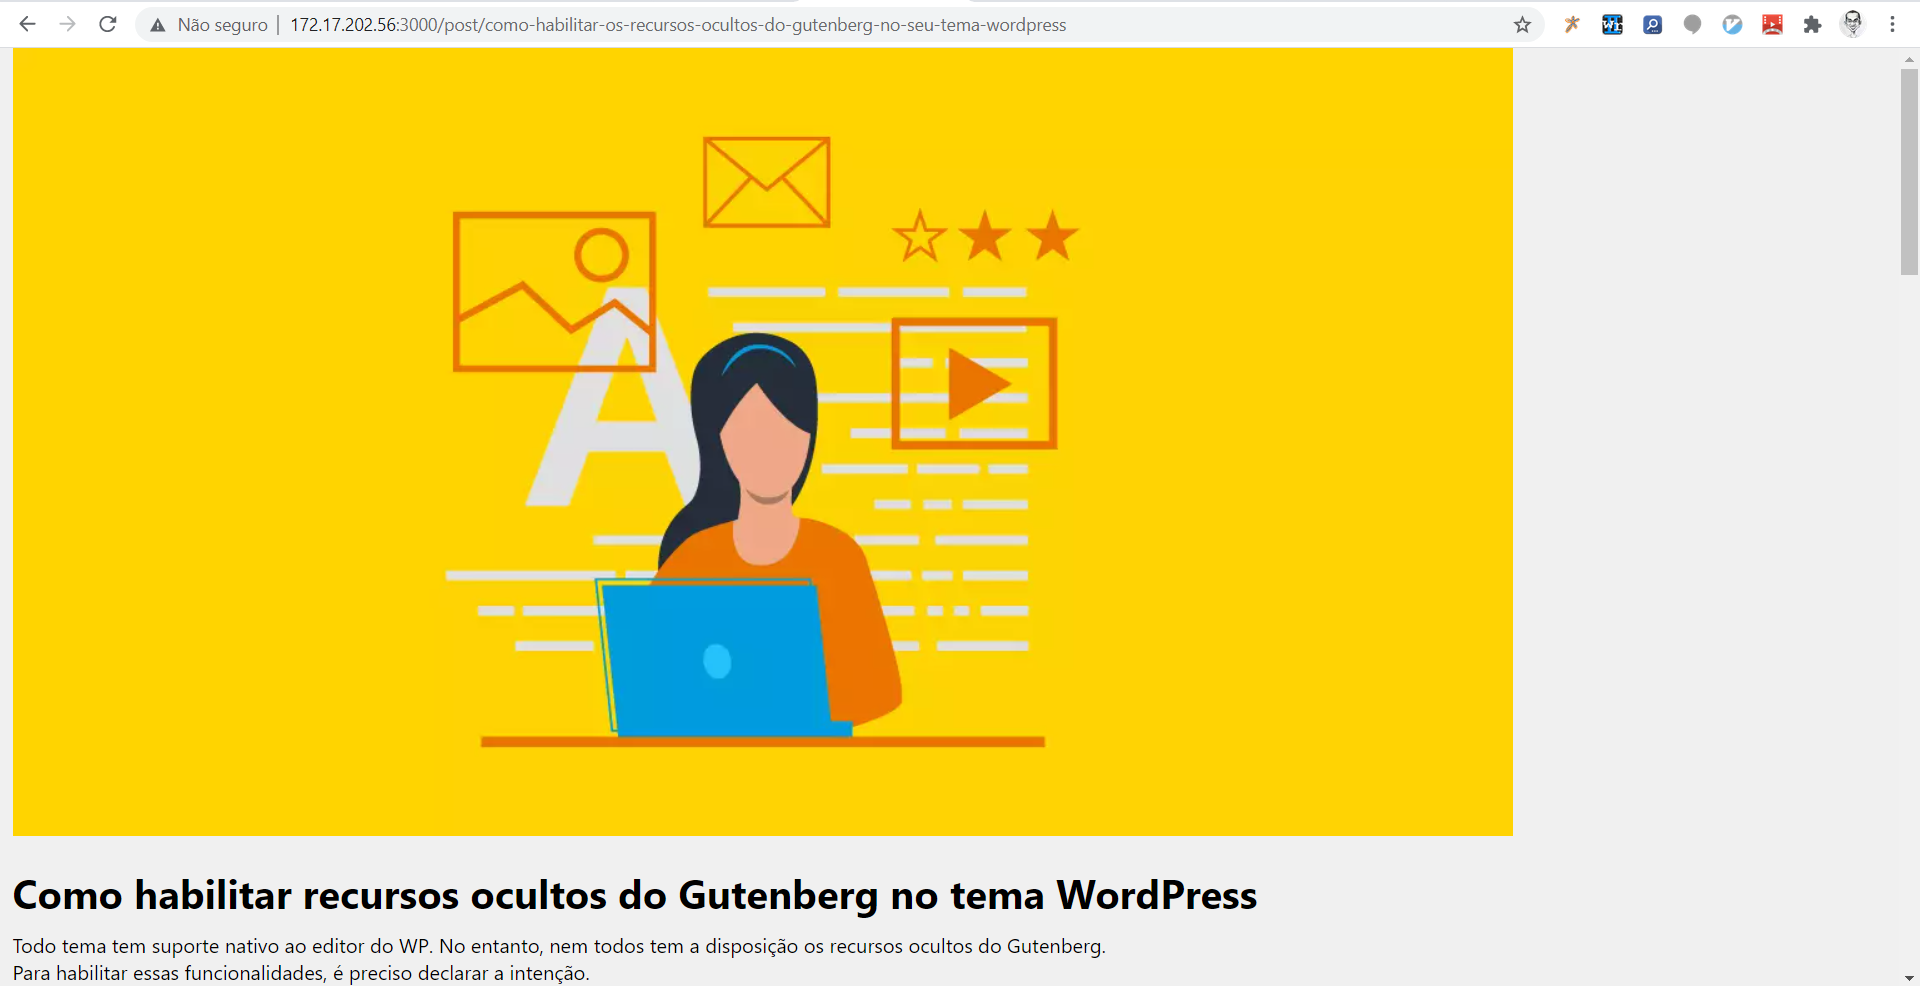
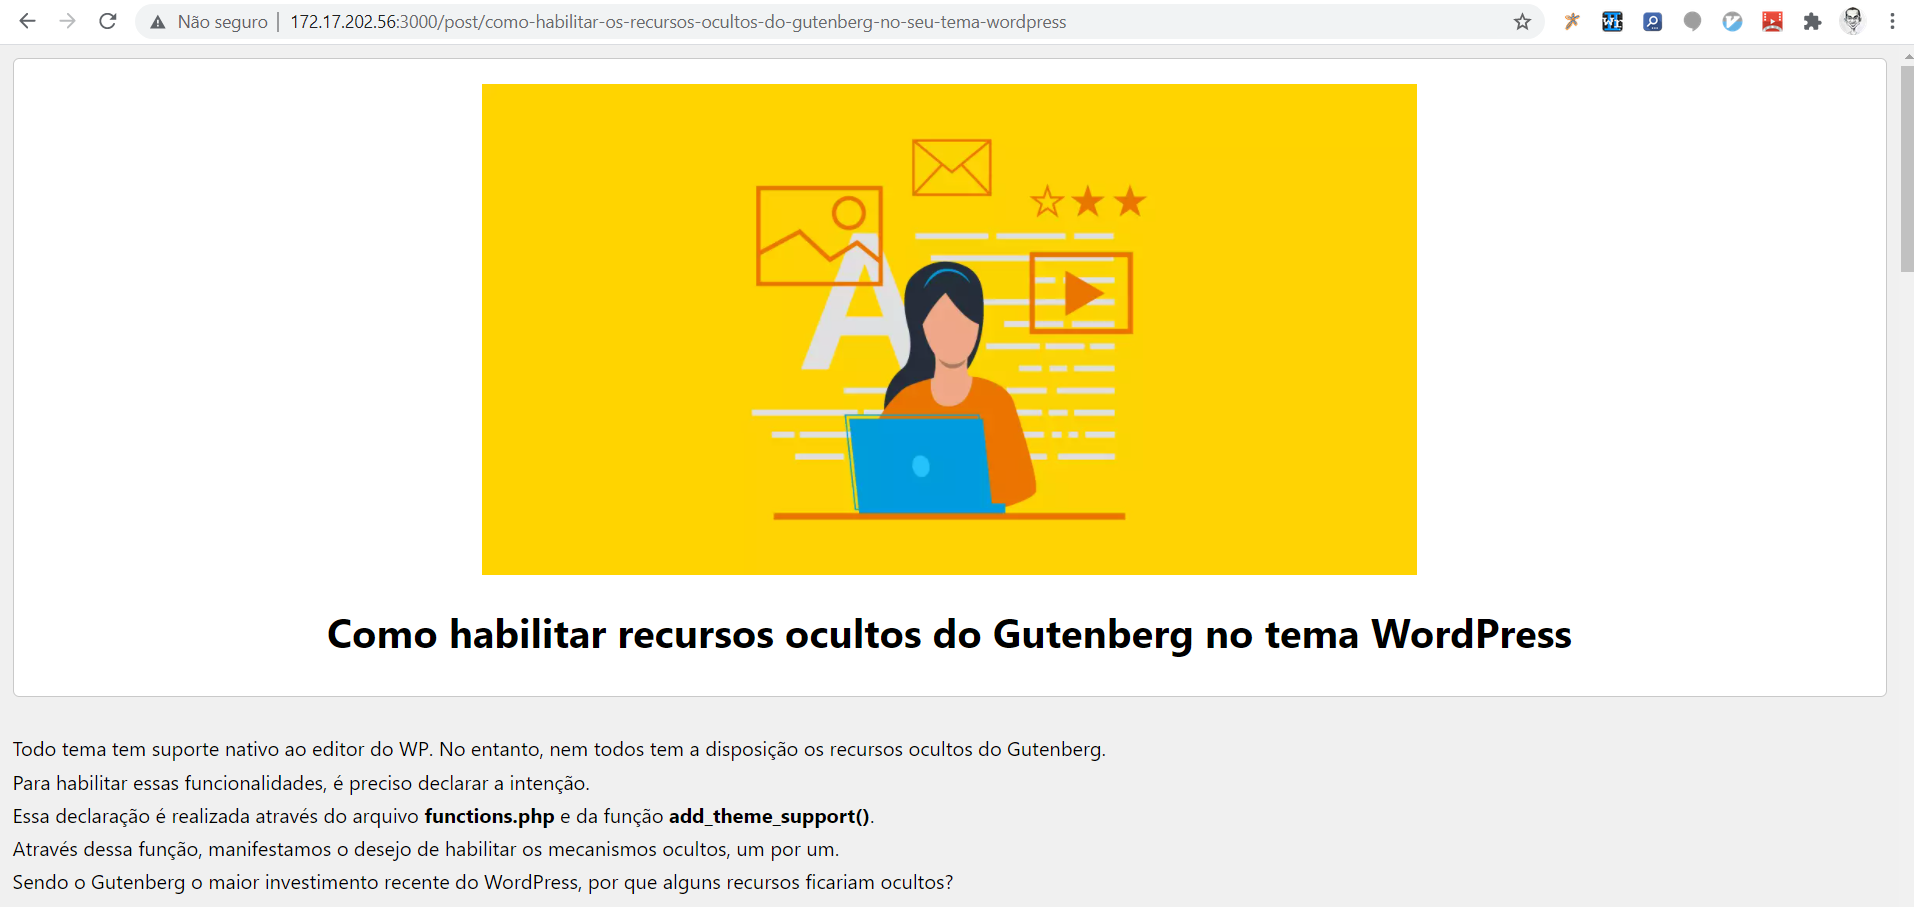
estilizacao pagina interna

diff --git a/src/Post.tsx b/src/Post.tsx
@@ -20,11 +20,15 @@ function Post(props: any) {
     }, []);
 
     return (
-        <div className="post2">
+        <>
+        <div className="post2_img">
             <img className="post__image2" src={post.image} alt="" />
             <h1 className="post__title2">{post.title}</h1>
+        </div>
+        <div className="post2_content">
             <p className="post__content" dangerouslySetInnerHTML={{ __html: post.content }} />
         </div>
+        </>
     );
 }
 

diff --git a/src/Post.css b/src/Post.css
@@ -5,7 +5,7 @@
 }
 
 h1 {
-  margin: 20px 0px 10px 0px;
+  margin: 0px 0px 30px 0px;
 }
 
 h2 {
@@ -15,3 +15,22 @@ h2 {
 h3 {
   margin: 10px 0px 0px 0px;
 }
+
+.post__image2 {
+  width: 50%;
+  margin: 20px 0;
+}
+
+p {
+  margin-top: 5px;
+}
+
+.post2_img {
+  border: 1px solid #c9c9c9;
+  text-align: center;
+  margin-top: 10px;
+  border-radius: 5px;
+  background-color: #fff;
+  margin-top: 30px;
+}
+
